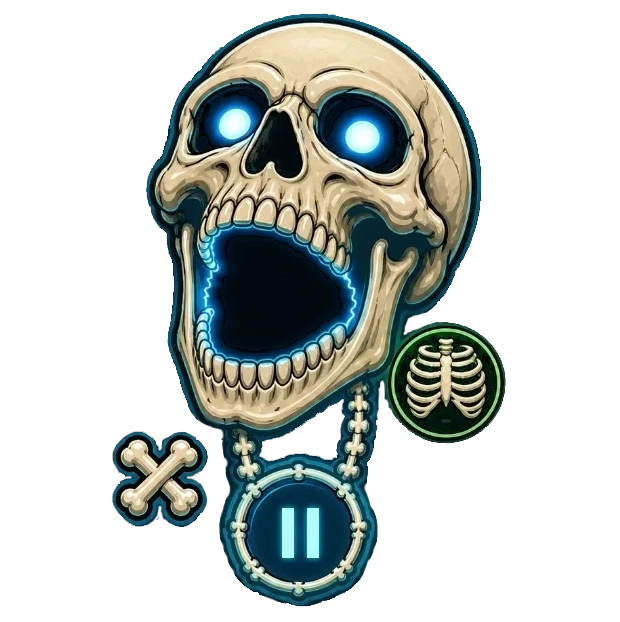
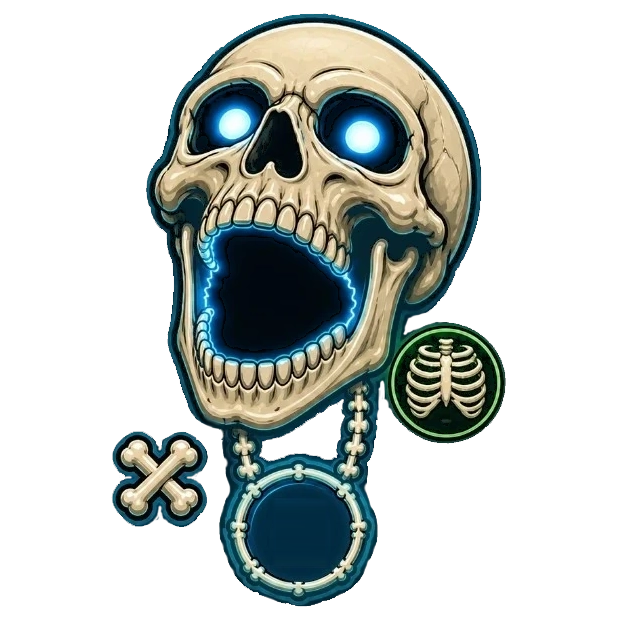
style(skeleton): hide mini EQ bars until playback starts and refine mini play button
- Hide mini EQ bars by default with opacity: 0 and fade in when track plays
- Remove blue gradient background from mini play button to let artwork show through
- Update mini play button positioning comments to reflect new artwork approach
- Refactor mini face image asset with updated visual styling
- EQ bars now only display during active playback, keeping the idle state clean

Changed region(s): [[0.429, 0.7942, 0.521, 0.9164]]

diff --git a/src/renderer/style.css b/src/renderer/style.css
@@ -2096,8 +2096,12 @@ input[type="range"]::-moz-range-thumb {
   align-items: flex-end;
   justify-content: space-between;
   pointer-events: none;
+  /* Silent mouth until the track actually plays; the art's own dotted tooth
+     line stays, the live bars do not idle. */
+  opacity: 0;
   clip-path: polygon(0 0, 65% 15%, 100% 60%, 95% 85%, 45% 100%, 0 90%);
 }
+.skeleton-skin .sk-body.playing .sk-mini-eq { opacity: 1; }
 .skeleton-skin .sk-mini-eq i {
   width: 3%;
   height: 6%;
@@ -2141,13 +2145,13 @@ input[type="range"]::-moz-range-thumb {
 }
 .skeleton-skin .sk-mini-face .sk-mini-play {
   /* The painted pendant's inner face: 99 px circle centred on (299, 529) in
-     the 620x622 card, i.e. a 51 px disc at 40.2% / 77%. Matching that circle
-     and its blue shading keeps the button invisible against the art. */
+     the 620x622 card, i.e. a 51 px disc at 40.2% / 77%. The button is only the
+     glyph's hit area — the face and its shading stay in the art, which no
+     longer carries the painted pause bars. */
   left: 40.2%;
   top: 77%;
   width: 16%;
   height: 15.9%;
-  background: radial-gradient(circle at 50% 48%, #033149 0%, #022a42 60%, #021a2a 100%);
 }
 /* Same painted glyph as the big pendant, scaled into the mini disc. */
 .skeleton-skin .sk-mini-play-icon {
